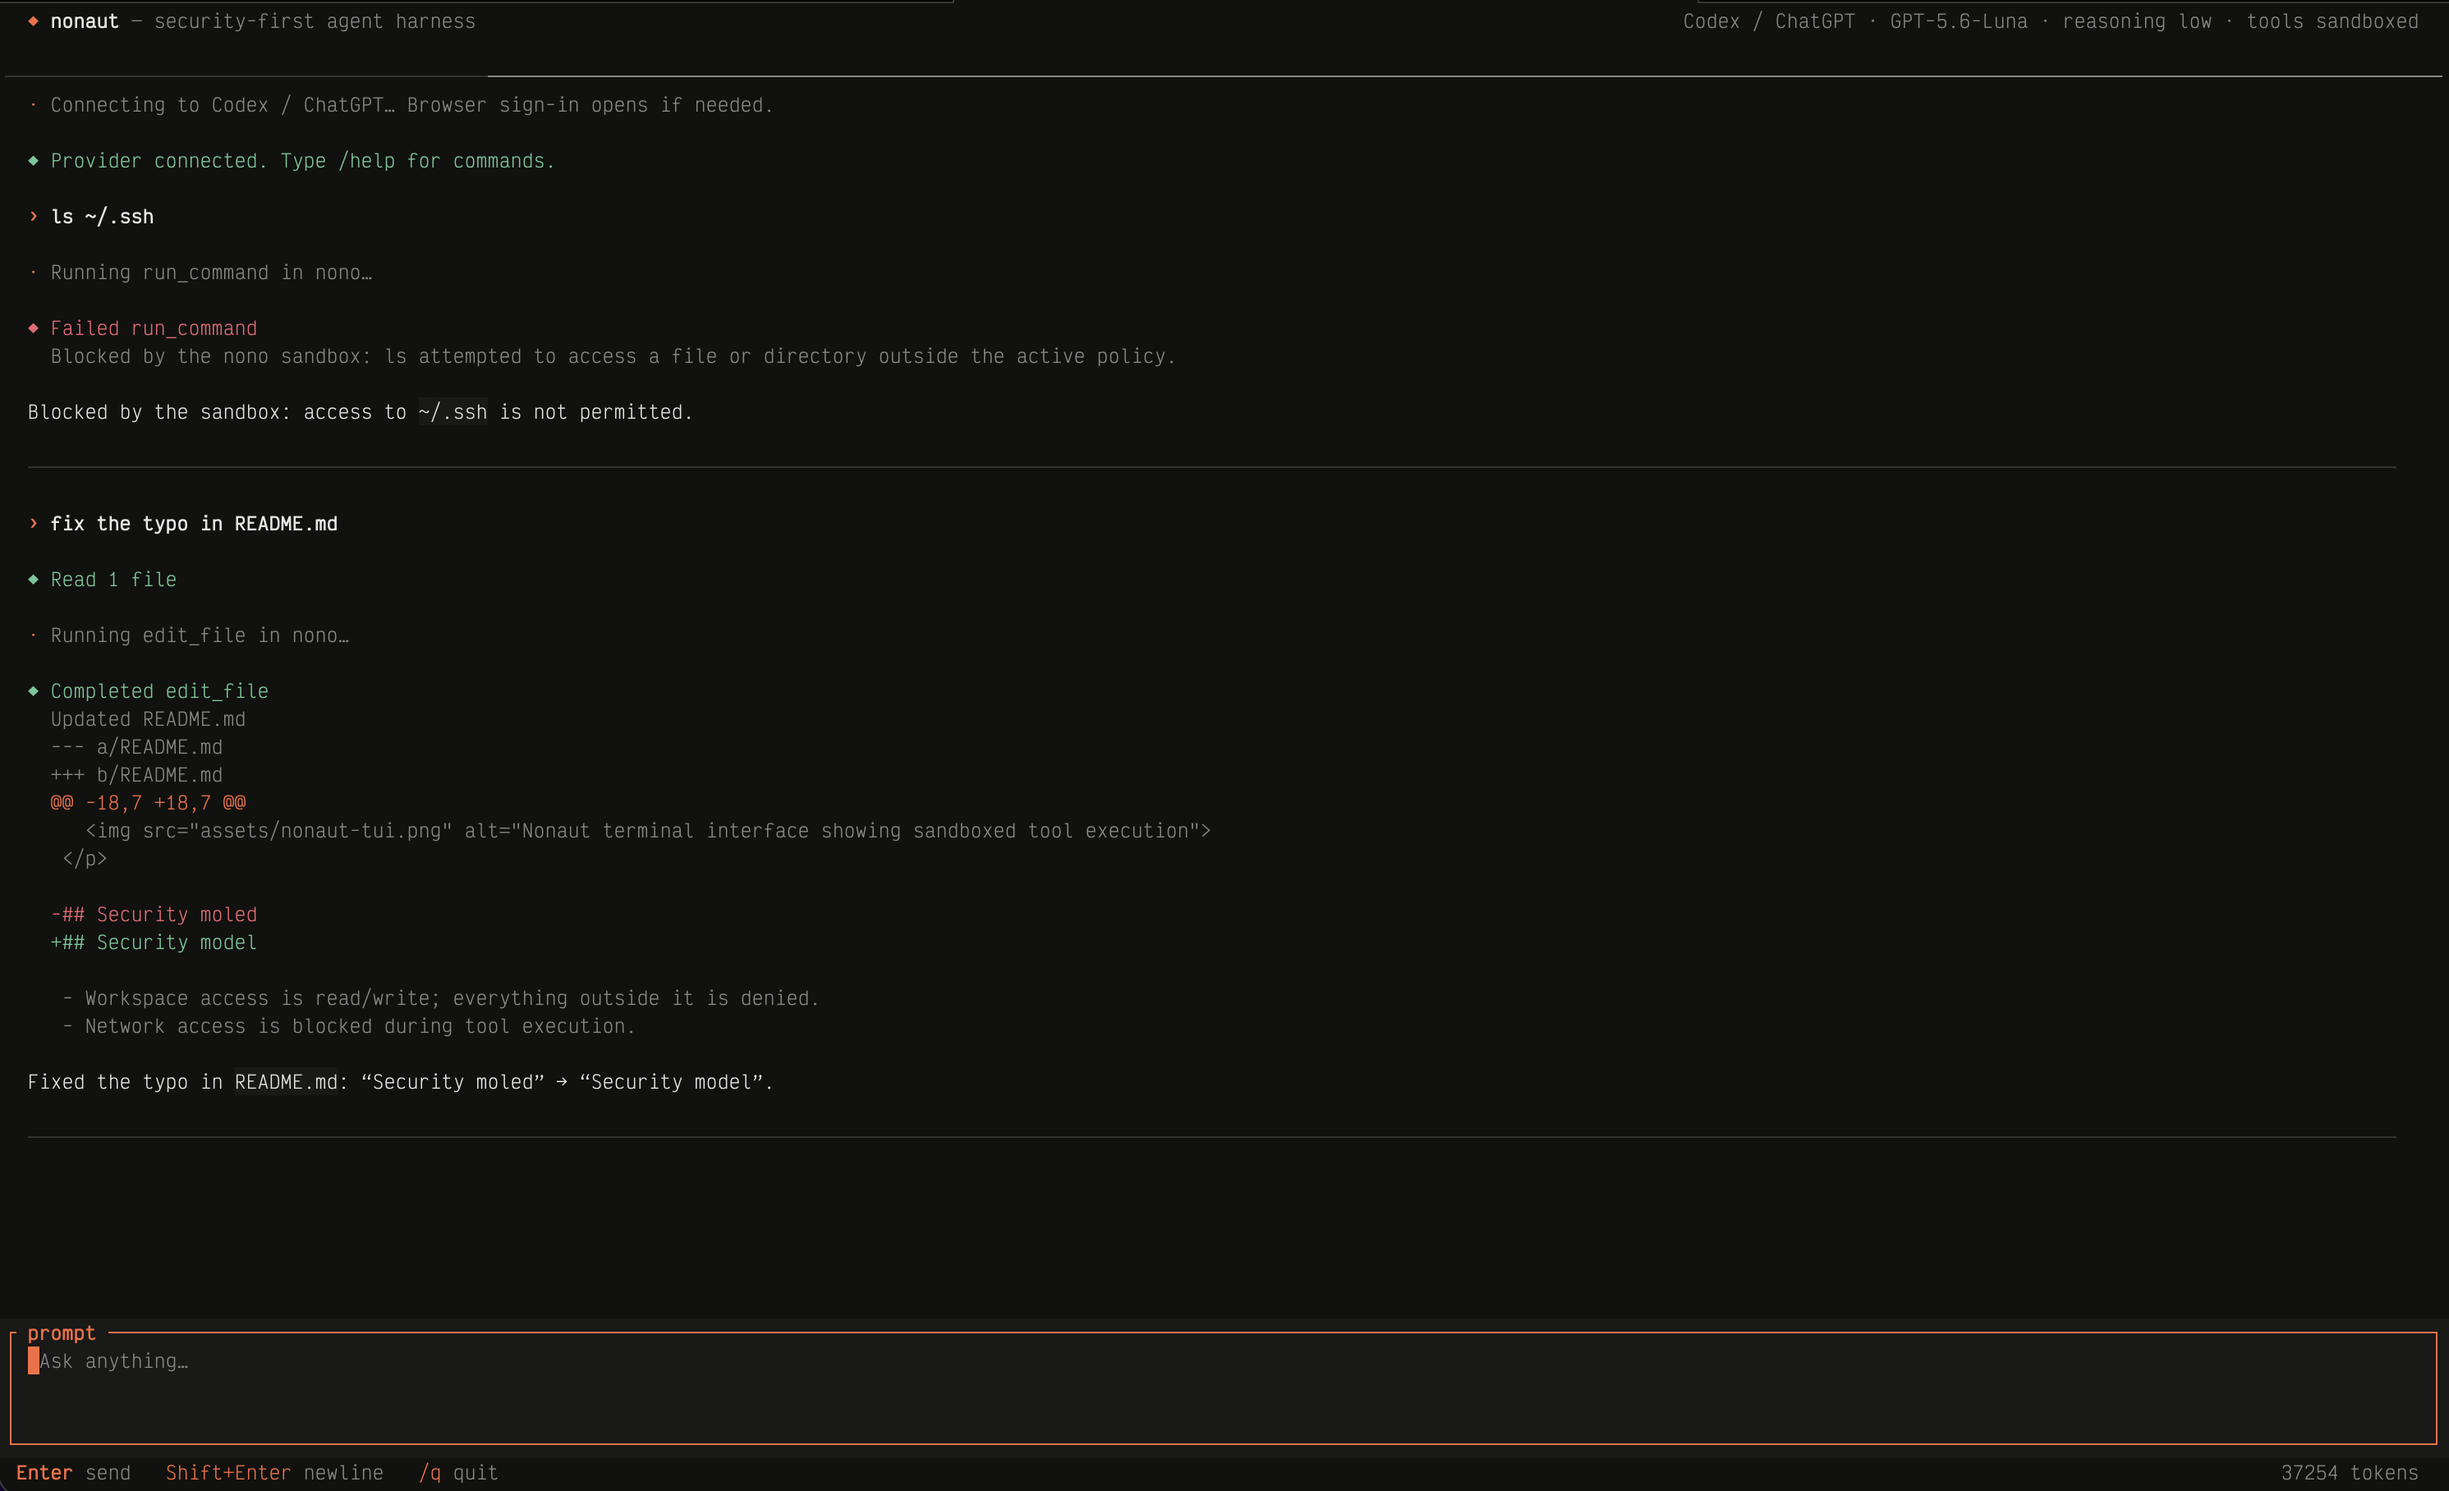
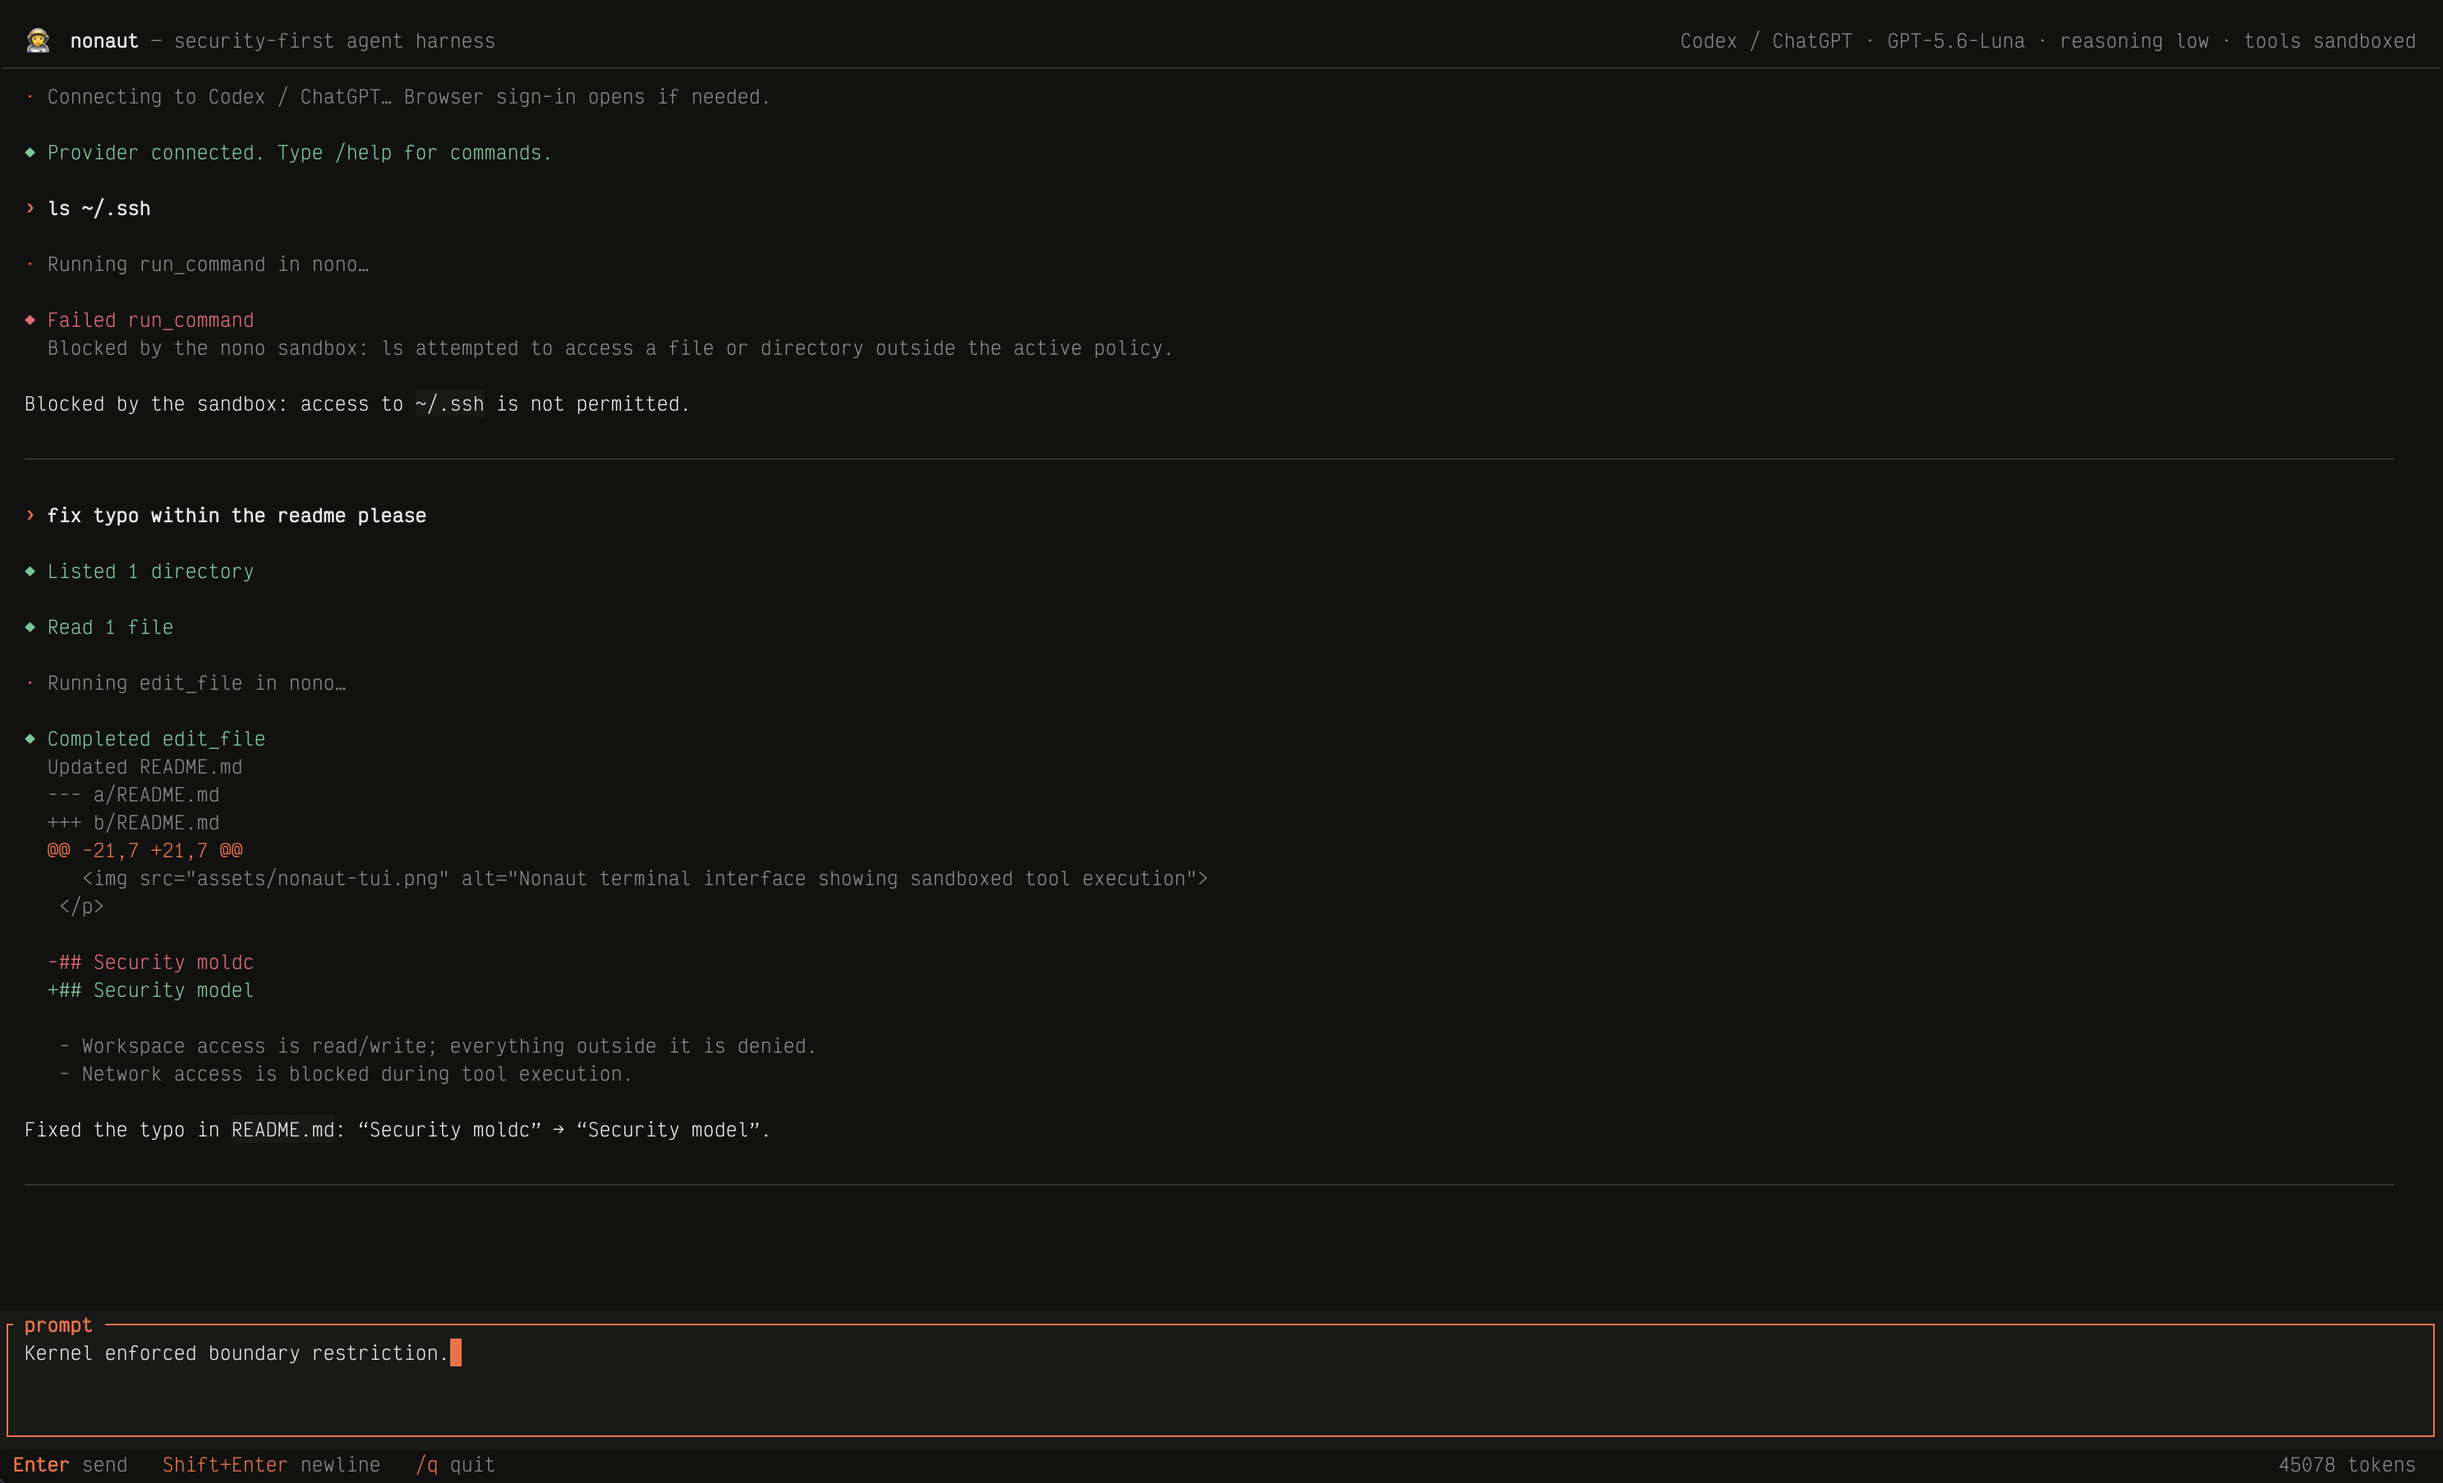
further enhancements

diff --git a/src/tui/mod.rs b/src/tui/mod.rs
@@ -333,8 +333,6 @@ impl App {
             Constraint::Length(1),
         ])
         .areas(frame.area());
-        let [brand, status] =
-            Layout::horizontal([Constraint::Length(42), Constraint::Min(1)]).areas(header);
         frame.render_widget(
             Block::new()
                 .borders(Borders::BOTTOM)
@@ -342,11 +340,19 @@ impl App {
                 .style(Style::new().bg(BACKGROUND)),
             header,
         );
+        let [_, header_content, _] = Layout::vertical([
+            Constraint::Length(1),
+            Constraint::Length(1),
+            Constraint::Length(1),
+        ])
+        .areas(header);
+        let [brand, status] =
+            Layout::horizontal([Constraint::Length(46), Constraint::Min(1)]).areas(header_content);
         let [controls, usage] =
             Layout::horizontal([Constraint::Min(1), Constraint::Length(20)]).areas(footer);
         frame.render_widget(
             Paragraph::new(Line::from(vec![
-                Span::styled("  ◆ ", Style::new().fg(ACCENT).bold()),
+                Span::styled("  🧑🚀  ", Style::new().fg(ACCENT).bold()),
                 Span::styled("nonaut", Style::new().fg(FOREGROUND).bold()),
                 Span::styled(" — security-first agent harness", Style::new().fg(MUTED)),
             ]))

diff --git a/README.md b/README.md
@@ -12,7 +12,8 @@ Nonaut is a minimal terminal agent for Codex / ChatGPT. The provider control
 plane handles authentication and inference; every model-requested tool runs in
 a fresh kernel-enforced sandbox.
 
-> Early stage: Codex / ChatGPT is the only provider and sessions are ephemeral.
+> [!NOTE]
+> Codex / ChatGPT is currently the only provider. Sessions are ephemeral.
 
 ## Preview
 
@@ -65,3 +66,9 @@ are also available.
 
 Set `NONO_BIN` to override nono discovery. Otherwise Nonaut prefers
 `~/.local/bin/nono` and falls back to `PATH`.
+
+## Releases
+
+Push a version tag matching `Cargo.toml`, such as `v0.0.1`, to publish signed
+build provenance, checksums, and binaries for Linux and macOS on x86_64 and
+ARM64.
